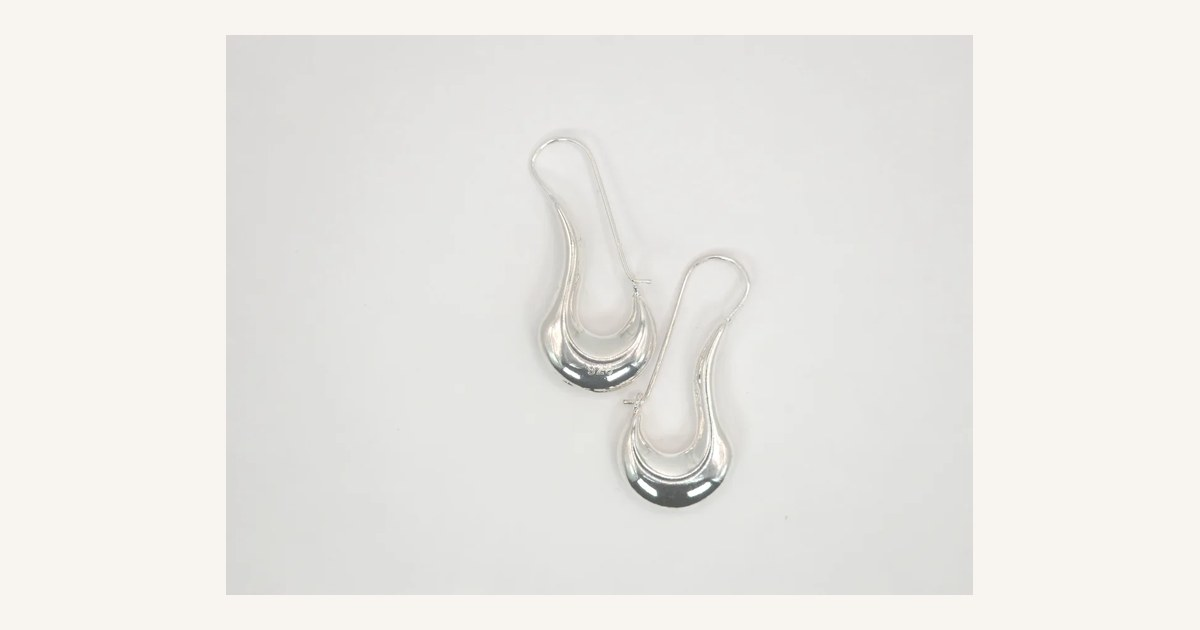
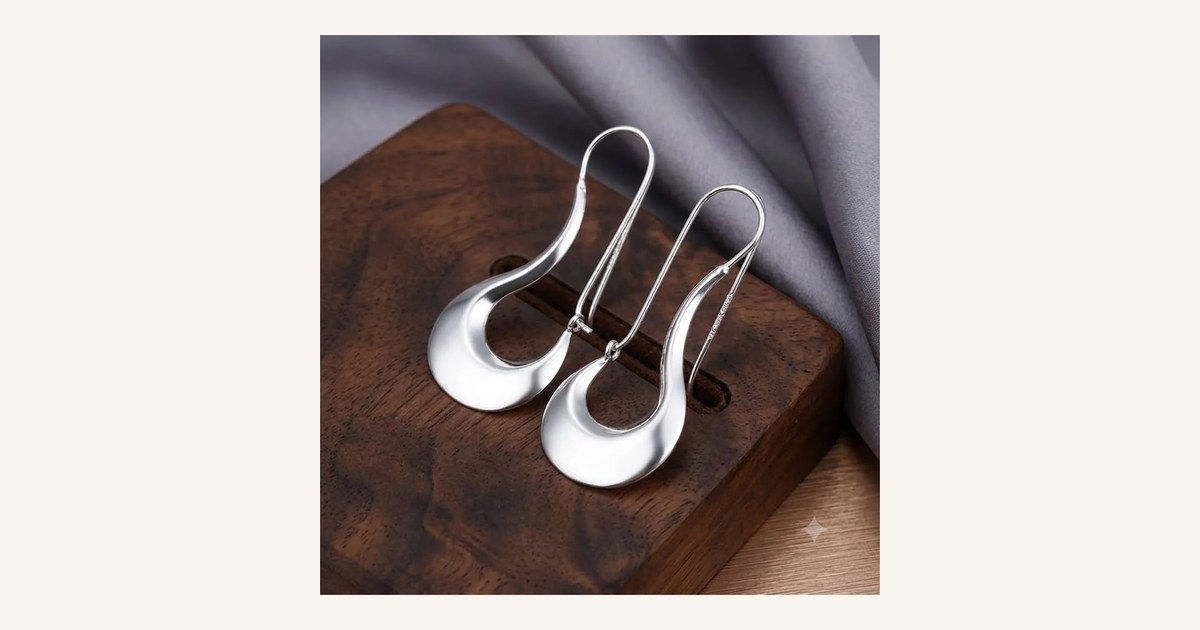
fix(A001): usa fotos reales del producto (madera/silk + fondo blanco), cuadradas y centradas
- Reemplaza las 3 imagenes ComfyUI (fondo gris, descentradas) por fotos reales:
  a001-madera (principal) y a001-blanco, recortadas a 1:1 para centrado perfecto.
- Elimina a001-1/2/3.webp. Actualiza JSON-LD, feed y portada OG.

diff --git a/index.html b/index.html
@@ -81,9 +81,8 @@
   "@type": "Product",
   "name": "Aretes de Plata Forma de U",
   "image": [
-    "https://moncatu.com/img/a001-1.webp",
-    "https://moncatu.com/img/a001-2.webp",
-    "https://moncatu.com/img/a001-3.webp"
+    "https://moncatu.com/img/a001-madera.webp",
+    "https://moncatu.com/img/a001-blanco.webp"
   ],
   "description": "Aretes finos de Plata Ley 925 con Dijes para Mujer | Joyería de Moda para Bodas, Fiestas y Compromisos",
   "sku": "A001",

diff --git a/products.js b/products.js
@@ -29,9 +29,8 @@ function moncatuDemoCatalog() {
       finish: "Pulido espejo",
       stock: 1,
       images: [
-        "img/a001-1.webp",
-        "img/a001-2.webp",
-        "img/a001-3.webp"
+        "img/a001-madera.webp",
+        "img/a001-blanco.webp"
       ],
       description: "Aretes finos de Plata Ley 925 con Dijes para Mujer | Joyería de Moda para Bodas, Fiestas y Compromisos",
       featured: true